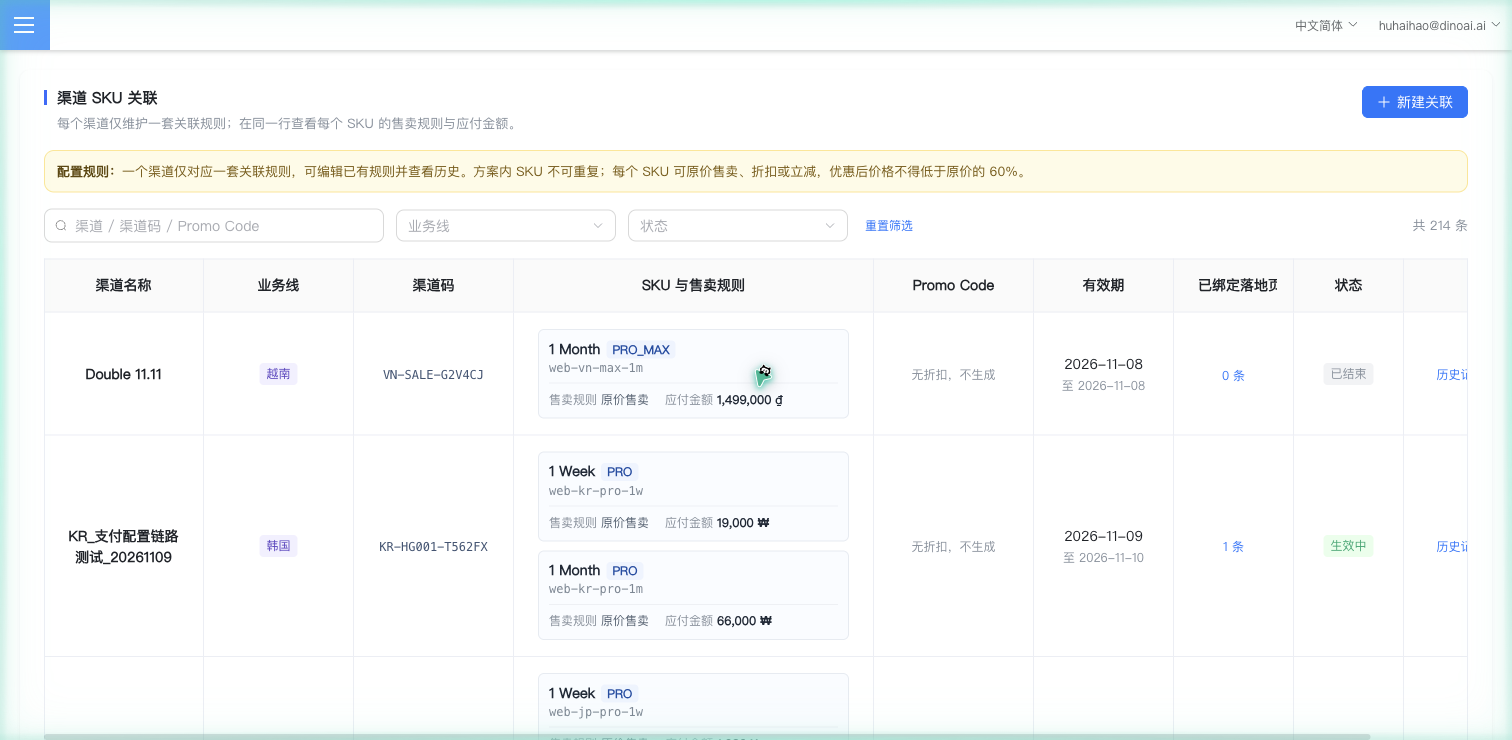
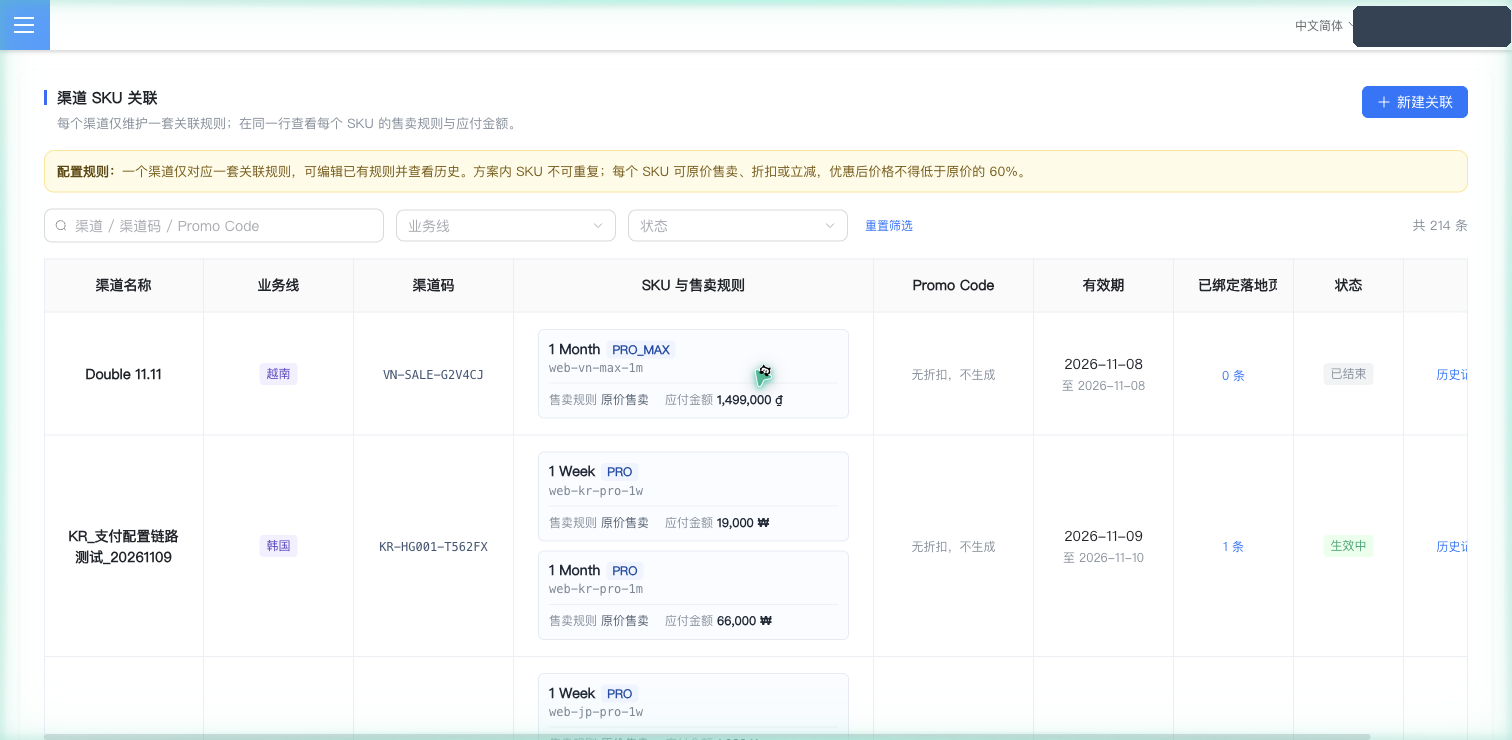
fix: replace 4 mis-captured screenshots, mask PII on all images for public release

Changed region(s): [[0.8704, 0.0, 1.0, 0.0622]]

diff --git a/audit/README.md b/audit/README.md
@@ -1,0 +1,72 @@
+# Dino CRM 只读功能巡检
+
+目标：遍历 CRM 的所有非操作类页面与视图，把真实界面、可读规则和现有手册逐项对照，产出一份经过证据支持的手册优化清单。
+
+## 当前准备状态
+
+| 项目 | 状态 | 说明 |
+|---|---|---|
+| CRM 站点连通 | 已完成 | `/dino-omnicenter/system/config` 返回 HTTP 200，但只是 SPA 入口 |
+| 本地手册素材 | 已完成 | 22 组中英文页面、截图、构建脚本和巡视记录已盘点 |
+| 浏览器 | 已具备 | Google Chrome 已安装 |
+| 自动化运行时 | 已具备 | WorkBuddy 环境内含 Playwright Core 1.58.2 |
+| 独立审计配置 | 待启动 | 使用 `audit/.browser-profile/`，不混用日常 Chrome 配置 |
+| CRM 登录态 | 待准备 | 需要在该独立配置中登录一次 |
+| 只读范围 | 已定义 | 见 `traversal-policy.json` |
+| 路由清单 | 部分确认 | 见 `route-manifest.json`，未知路由在巡检时补全 |
+
+## 开始巡检前必须满足
+
+1. **独立登录会话**
+   - 可以访问 `https://crm.dinoai.ai/dino-omnicenter`。
+   - 如果公司要求 VPN、SSO、短信验证码或二次验证，需要提前完成。
+   - 优先使用只读测试账号；如果只能使用个人账号，巡检期间禁止任何写入操作。
+
+2. **浏览器控制**
+   - 使用独立 Chrome 配置目录，避免读取或修改日常浏览记录。
+   - Chrome 以本机回环地址上的调试端口启动，只允许本机自动化连接。
+   - 巡检完成后可关闭该 Chrome 实例，不影响用户原有 Chrome。
+
+3. **只读范围确认**
+   - 允许：打开菜单、切换页签、展开筛选器、查看只读详情、读取页面结构和文字、截取页面。
+   - 禁止：新增、编辑、保存、提交、删除、启用/停用、绑定、导入、导出、下载、拨号、发送、重发验证码。
+   - 任何弹窗出现写入风险、权限提升、付款或数据外发时立即停止并记录。
+
+4. **数据脱敏**
+   - 原始 DOM、截图和网络请求只保存到 `audit/evidence/raw/`，该目录已被 Git 忽略。
+   - 进入正式报告的截图必须遮蔽邮箱、手机号、用户 ID、录音地址和令牌。
+   - 不记录 Cookie、Authorization、密码、自动填充内容或本地存储中的凭证。
+
+5. **巡检证据**
+   - 每个页面至少记录：实际 URL、页面标题、可见菜单路径、页签、主要字段、按钮、规则文案、截图、巡检时间。
+   - 对筛选器等只读交互，只记录交互前后变化，不提交业务表单。
+   - 页面出现错误时保留错误现象、URL、时间和截图，不反复重试。
+
+6. **变更控制**
+   - 巡检先产出报告，不直接覆盖现有手册。
+   - 需要修改`docs/`时，先确认每项差异来自生产页面还是文档问题。
+   - 中英文内容必须成对更新，截图必须先脱敏。
+   - 现有工作区中已修改的截图属于用户现有改动，不得覆盖。
+
+## 执行阶段
+
+1. 启动独立 Chrome 审计配置并登录 CRM。
+2. 展开全部一级和二级菜单，建立实际路由树。
+3. 遍历管理看板、用户、订单、销售、营销、系统管理的全部只读页签与详情。
+4. 将真实页面与现有 22 篇手册逐项比对：
+   - 页面是否有手册
+   - 字段、筛选器、按钮、状态是否完整
+   - 规则、口径、异常路径是否说明
+   - 中英文页面是否一致
+5. 输出 `reports/gap-analysis.md` 和 `reports/page-evidence.json`。
+6. 评审通过后，再修改手册和截图。
+
+## 停止条件
+
+出现以下任一情况时停止当前页面巡检并记录：
+
+- 页面跳转到登录、SSO、验证码或权限申请页。
+- 必须执行写入才能继续。
+- 出现支付、数据导出、外发、授权或删除确认。
+- 页面连续报错、接口限流或会话即将过期。
+- 页面展示了不应复制的密钥、令牌或超范围客户数据。

diff --git a/audit/report-template.md b/audit/report-template.md
@@ -1,0 +1,28 @@
+# CRM 只读巡检记录
+
+- 巡检时间：
+- 巡检账号角色：
+- 浏览器与会话：
+- CRM 页面版本或构建标识：
+
+## 页面发现
+
+| 模块 | 实际路由 | 页面/页签 | 现有手册 | 缺失或差异 | 证据 |
+|---|---|---|---|---|---|
+|  |  |  |  |  |  |
+
+## 功能与字段清单
+
+| 页面 | 筛选项 | 表头/字段 | 只读详情 | 状态值 | 规则文案 |
+|---|---|---|---|---|---|
+|  |  |  |  |  |  |
+
+## 手册优化建议
+
+| 优先级 | 文档 | 问题 | 建议修改 | 验收标准 |
+|---|---|---|---|---|
+| P0 |  |  |  |  |
+
+## 风险与未完成项
+
+- 
